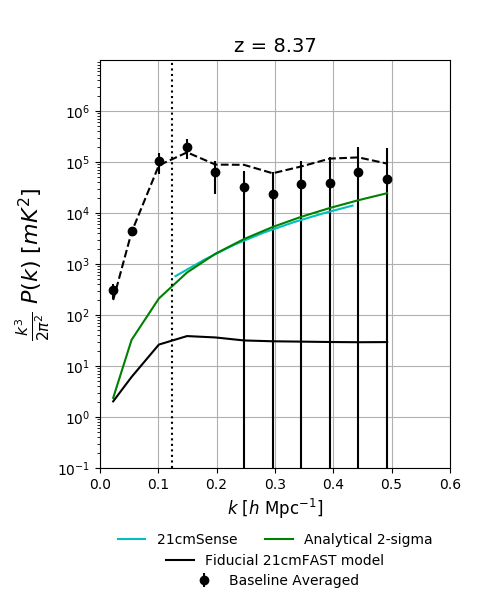
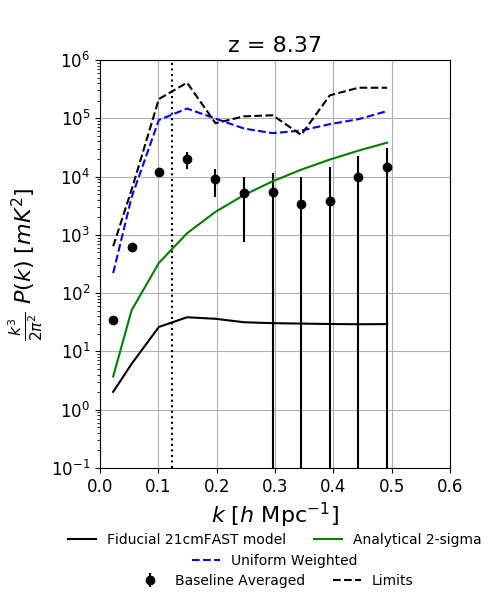
updated erratum.tex with new figures.
Added new figures pspec_95.png and pspec_95_pk.png as well

diff --git a/erratum.tex b/erratum.tex
@@ -29,7 +29,7 @@
 \newcommand\abs[1]{\left|#1\right|}
 \newcommand{\mKlimit}{(22.4\,\textrm{mK})$^2$ }
 \newcommand{\mKsqlimit}{503 mK$^2$}
-\newcommand{\revisedmklimit}{(212.2\,\textrm{mK})$^2$}
+\newcommand{\revisedmklimit}{(250\,\textrm{mK})^2}
 \newcommand{\pobercitep}{(Pober et al. 2015, in prep)}
 \newcommand{\pobercitet}{Pober et al. (2015, in prep)}
 \newcommand{\parsonscitep}{(Parsons et al. 2015, in prep)}
@@ -104,8 +104,8 @@ the cosmological 21 cm signal associated with the chosen power spectrum
 estimator and also underestimated the statistical error on those estimates.
 The revised result, shown in Figure \ref{fig:updated_pspec}, which is included
 in the multi-redshift limits of \kolopaniscitet, places a best upper limit of
-(212.2\,\textrm{mK})$^2$ at $z=8.4$ and $k=0.3\hMpci$.  Below, we briefly
-summarize the errors in the original analysis and how they are corrected.  For
+$\revisedmklimit$ at $z=8.4$ and $k=0.3\hMpci$.  Below, we briefly
+summarize the errors in the original analysis and how they are corrected. For
 an in-depth analysis of the errors, we refer the reader to \chengcitet.
 
 The first and most impactful error relates to the method by which signal loss was estimated.
@@ -127,7 +127,7 @@ an incremental bandpower associated with $\mathbf e$ can be written as
 {\mathbf x}\widehat{\textbf{C}}_r^{-1}\textbf{Q}_\alpha \widehat{\textbf{C}}_r^{-1}{\mathbf e}+
 {\mathbf e}\widehat{\textbf{C}}_r^{-1}\textbf{Q}_\alpha \widehat{\textbf{C}}_r^{-1}{\mathbf x}+
 {\mathbf e}\widehat{\textbf{C}}_r^{-1}\textbf{Q}_\alpha \widehat{\textbf{C}}_r^{-1}{\mathbf e}
-- {\mathbf x}\widehat{\textbf{C}}_x^{-1}\textbf{Q}_\alpha \widehat{\textbf{C}}_x^{-1}{\mathbf x}. \\
+- {\mathbf x}\widehat{\textbf{C}}_x^{-1}\textbf{Q}_\alpha \widehat{\textbf{C}}_x^{-1}{\mathbf x}.
 \label{eq:crossterms}
 \end{align}
 
@@ -135,8 +135,9 @@ an incremental bandpower associated with $\mathbf e$ can be written as
 
 The key error in the previous analysis was to assume that, since $\mathbf e$ was statistically independent of $\mathbf x$, that
 the $\mathbf x$-$\mathbf e$ cross-terms in Eq. (\ref{eq:crossterms}) would
-average to zero in an ensemble. In other words, only the last term in
-Eq. \ref{eq:crossterms} was used to calculate signal loss. However, as shown in $\chengcitet$ and \citet{switzer_et_al2015}, these cross-terms can contain
+average to zero in an ensemble. 
+%In other words, only the last term in Eq. \ref{eq:crossterms} was used to calculate signal loss. 
+However, as shown in $\chengcitet$ and \citet{switzer_et_al2015}, these cross-terms can contain
 significant negative power, since $\widehat{\textbf{C}}_r$ contains information
 that correlate the
 two vectors.  As a result, the amount of signal loss present was mis-estimated to be negligible, when in fact approximately
@@ -182,10 +183,15 @@ Our revised results are put into context with measurements at other redshifts in
     \subfloat[]{{\includegraphics[width=7.5cm]{plots/pspec_95_pk.png} }}%
     \qquad
     \subfloat[]{{\includegraphics[width=7.5cm]{plots/pspec_95.png} }}%
-    \caption{Measured power spectrum (black dots with 2$\sigma$ error bars) at $z=8.37$ shown in (a) $P(k)$ and (b) $\Delta^{2}$
-             using 135 days of PAPER 64 data. The dotted vertical lines at $k=0.6\hMpci$ show the bounds of the delay filter (or the horizon limit).
-             Both the analytical (green) and 21cmSense (cyan) 2$\sigma$ noise power spectra are also shown assuming $T_{rx}=144K$. A fiducial model
-             of the 21 cm power spectrum from 21cmFast is shown as the solid black line.}%
+    \caption{Power spectrum results at $z=8.37$ shown in (a) $P(k)$ and (b) $\Delta^{2}$
+             using 135 days of PAPER 64 data. For both plots, the pre-signal
+             loss power spectrum estimate is shown with the black points and $2\sigma$
+             error bars. The post-signal loss power spectrum (black dashed curve) shows the 2$\sigma$ upper limit.
+             The uniformly weighted power spectrum (using $\widehat{\textbf{C}}_{x}=\textbf{I}$), is shown as the blue
+             dashed line and does not incur any signal loss by construction.
+             The dotted vertical lines at $k=0.06\hMpci$ show the bounds of the delay filter (or the horizon limit).
+             The analytical (green) 2$\sigma$ noise power spectra are also shown assuming $T_{rx}=144K$. A fiducial
+             model of the 21cm power spectrum from 21cmFast is shown as the solid black line.}
     \label{fig:updated_pspec}%
 \end{figure}
 
